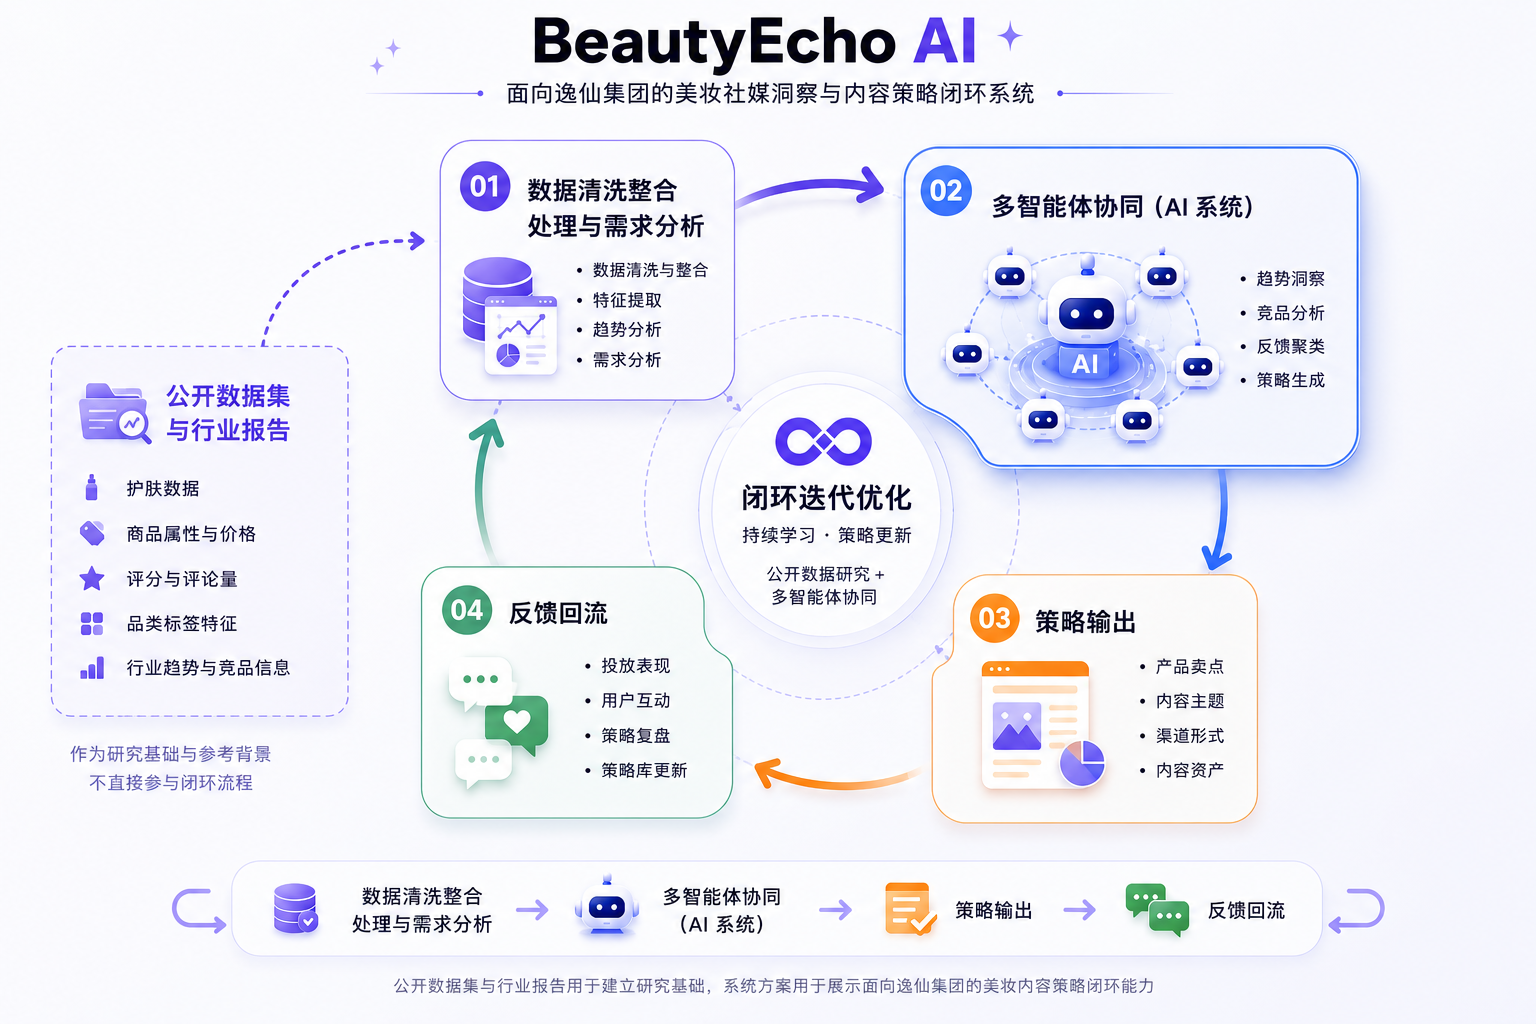
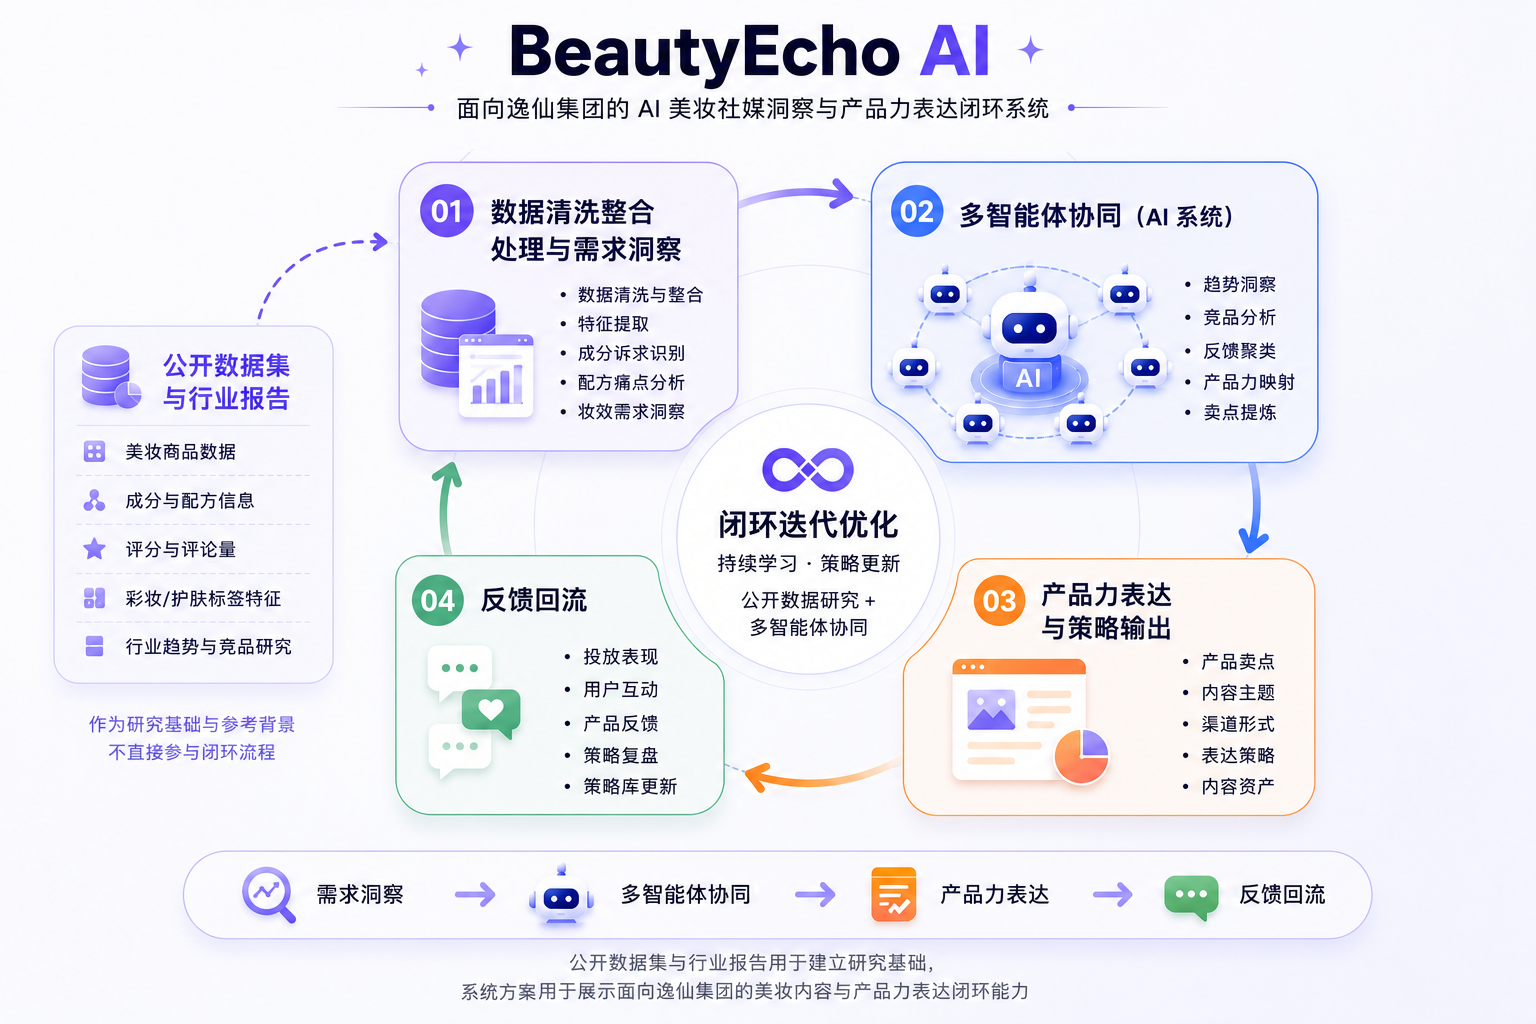
Tighten repo consistency and asset handling

diff --git a/analysis/01_公开数据EDA.py b/analysis/01_公开数据EDA.py
@@ -11,6 +11,8 @@ OUTPUT_DIR.mkdir(parents=True, exist_ok=True)
 
 def resolve_data_path() -> Path:
     candidates = [
+        ROOT / "data" / "public_beauty_data.csv",
+        ROOT.parent / "archive" / "public_beauty_data.csv",
         ROOT / "data" / "skincare_df.csv",
         ROOT.parent / "archive" / "skincare_df.csv",
     ]
@@ -18,8 +20,8 @@ def resolve_data_path() -> Path:
         if candidate.exists():
             return candidate
     raise FileNotFoundError(
-        "未找到 Sephora 数据集，请将 skincare_df.csv 放到 data/ 目录，"
-        "或放在仓库同级目录 archive/ 下。"
+        "未找到公开美妆数据文件，请将 public_beauty_data.csv 放到 data/ 目录，"
+        "或放在仓库同级目录 archive/ 下。当前脚本也兼容 skincare_df.csv。"
     )
 
 

diff --git a/analysis/02_公开数据评分预测.py b/analysis/02_公开数据评分预测.py
@@ -12,6 +12,8 @@ OUTPUT = ROOT / "outputs" / "公开数据评分预测摘要.txt"
 
 def resolve_data_path() -> Path:
     candidates = [
+        ROOT / "data" / "public_beauty_data.csv",
+        ROOT.parent / "archive" / "public_beauty_data.csv",
         ROOT / "data" / "skincare_df.csv",
         ROOT.parent / "archive" / "skincare_df.csv",
     ]
@@ -19,8 +21,8 @@ def resolve_data_path() -> Path:
         if candidate.exists():
             return candidate
     raise FileNotFoundError(
-        "未找到 Sephora 数据集，请将 skincare_df.csv 放到 data/ 目录，"
-        "或放在仓库同级目录 archive/ 下。"
+        "未找到公开美妆数据文件，请将 public_beauty_data.csv 放到 data/ 目录，"
+        "或放在仓库同级目录 archive/ 下。当前脚本也兼容 skincare_df.csv。"
     )
 
 

diff --git a/README.md b/README.md
@@ -31,6 +31,10 @@ data/         数据放置说明（不直接上传第三方完整数据）
 assets/       架构图与展示素材
 ```
 
+## 架构图
+
+![BeautyEcho AI 架构图](assets/BeautyEcho_AI_架构图.png)
+
 ## 推荐阅读顺序
 
 1. `proposal/开题报告.md`
@@ -48,10 +52,12 @@ python analysis/01_公开数据EDA.py
 python analysis/02_公开数据评分预测.py
 ```
 
-脚本会优先从以下位置读取数据：
+脚本会优先尝试以下本地文件名与位置：
 
-1. `data/skincare_df.csv`
-2. 仓库同级目录下的 `archive/skincare_df.csv`
+1. `data/public_beauty_data.csv`
+2. 仓库同级目录下的 `archive/public_beauty_data.csv`
+3. `data/skincare_df.csv`
+4. 仓库同级目录下的 `archive/skincare_df.csv`
 
 ## 数据与合规说明
 

diff --git a/data/README.md b/data/README.md
@@ -4,7 +4,12 @@
 
 ## 推荐放置方式
 
-请将本地下载的 `skincare_df.csv` 放在以下任一位置：
+建议优先将本地整理后的公开美妆数据命名为 `public_beauty_data.csv`，并放在以下任一位置：
+
+1. `data/public_beauty_data.csv`
+2. 仓库同级目录下的 `archive/public_beauty_data.csv`
+
+为了兼容现有本地研究文件，脚本也支持以下旧文件名：
 
 1. `data/skincare_df.csv`
 2. 仓库同级目录下的 `archive/skincare_df.csv`